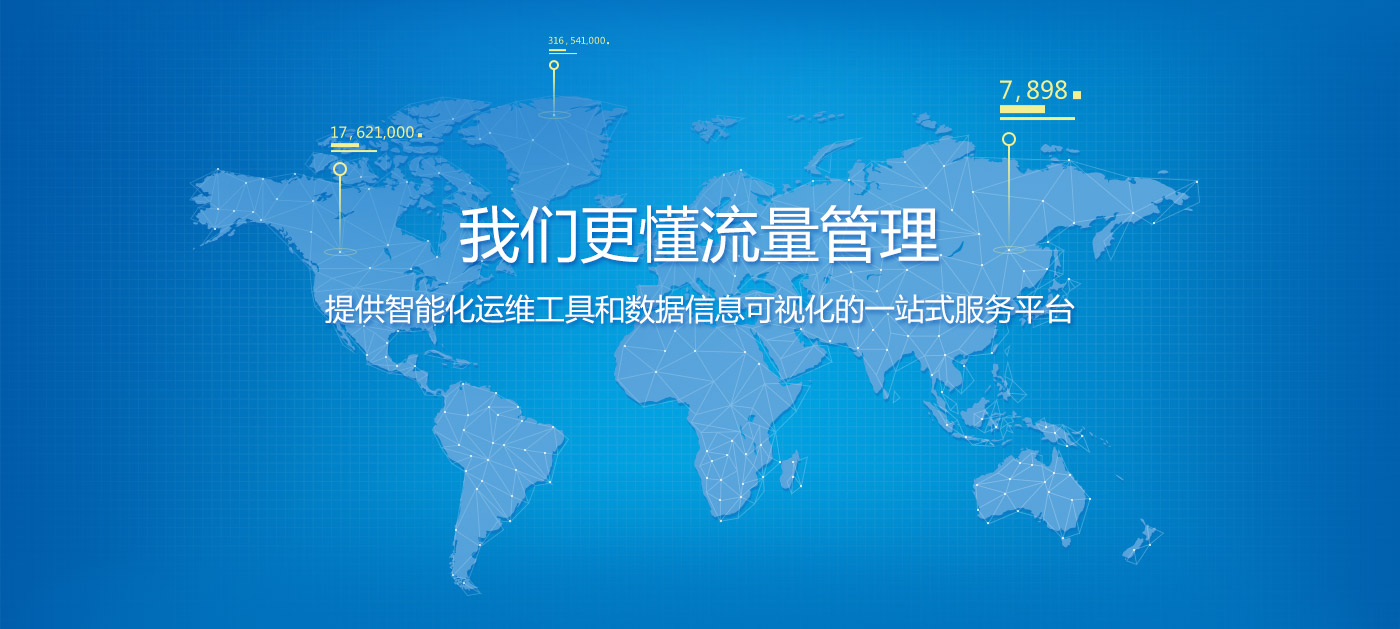
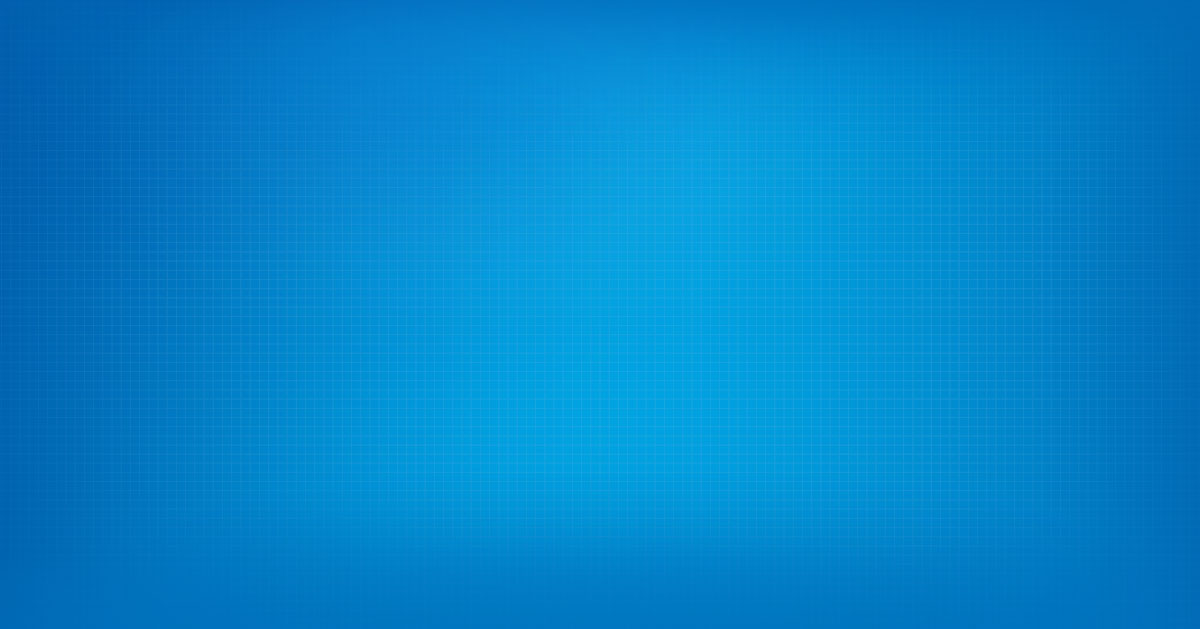
update

diff --git a/src/page/operateLog/showLogList.vue b/src/page/operateLog/showLogList.vue
@@ -41,12 +41,12 @@
                 <Input v-model="log.user" style="width: 350px"></Input>
             </div>
             <div class="search-ctrl">
-                <Button type="primary" class="btn-search ml-20 mt-10" @click="searchSubmit">立即检索</Button>
+                <Button type="primary" class="btn-search ml-20 mt-10" @click="getLogData">立即检索</Button>
                 <a class="text-blue" @click="reset">清空</a>
             </div>
         </div>
         <div class="search-result">
-            <p class="search-content">已查找到<span>1161</span>条数据</p>
+            <p class="search-content">已查找到<span>{{data.length}}</span>条数据</p>
             <a class="search-download">下载检索结果文件</a>
         </div>
         <div class="tableContent">
@@ -68,34 +68,80 @@
 }
 </style>
 <script type="text/ecmascript-6">
-    import {loglisttables,showDataSelection} from '../../../static/data'
+    import {loglisttables,showDataSelection,dateOptions} from '../../../static/data'
+    import * as types from '../../assets/js/const'
     export default{
         data(){
             return {
                 columns: loglisttables.columns,
-                data: loglisttables.datalist,
+                data: [],
                 logTypeList:showDataSelection.logTypeList,
                 sourceList: showDataSelection.sourceList,
                 resultList: showDataSelection.resultList,
+                defaultDate:dateOptions.defaultDate,
+                options: dateOptions.options,
                 log:{
-                    user: ''
+                    user: '',
+                    logType: 'all',
+                    source: 'all',
+                    result: 'all',
+                    startDate:new Date(),
+                    finDate: new Date()
                 },
                 defaultData:{
-                    logType:{
-                        label: '全部',
-                        value: 'all'
-                    },
-                    source:{
-                        label: '全部来源',
-                        value: 'all'
-                    },
-                    result: {
-                        label: '全部',
-                        value: 'all'
-                    }
-                },
-                selection: [],
+                    logType:types.logType,
+                    source: types.source,
+                    result: types.result
+                }
             }
         },
+        methods:{
+            getLogData(){
+                this.$http.post('http://localhost:8080/user',this.log)
+                        .then(()=>{
+
+                        })
+                        .catch((res)=>{
+                            this.data = loglisttables.datalist
+                        })
+            },
+            selectLog(value){
+                this.log.logType = value.value
+            },
+            selectSource(value){
+                this.log.source = value.value
+            },
+            selectResult(value){
+                this.log.result = value.value
+            },
+            reset(){
+                this.log.user = '';
+                this.log.logType = 'all';
+                this.log.source = 'all';
+                this.log.result = 'all';
+                this.log.startDate = new Date();
+                this.log.finDate = new Date();
+            },
+            setStart(date) {
+                this.log.startDate = date;
+                if(this.log.finDate && this.log.startDate>this.log.startDate){
+                    alert('起始时间不能晚于结束时间！');
+                    return false;
+                }
+            },
+            setFin(date) {
+                this.log.finDate = date;
+                if(this.log.startDate<this.log.startDate){
+                    alert('结束时间不能早于起始时间！');
+                    return false;
+                }
+            },
+        },
+        computed:{
+
+        },
+        mounted(){
+            this.getLogData()
+        }
     }
 </script>

diff --git a/src/page/common/home.vue b/src/page/common/home.vue
@@ -2,24 +2,93 @@
     <div class="home">
         <header>
             <div class="pull-left logo-info">
-                <img src="../../assets/imgs/logo.png">
+                <img src="../../assets/imgs/logo_home.png">
                 <span>全网流量资源管理平台</span>
+                <div class="pull-right">
+                    <a>数据视图</a>
+                    <a>在线文档</a>
+                    <a>关于我们</a>
+                </div>
             </div>
         </header>
         <div class="homeBg">
-
+            <img src="../../assets/imgs/map.png" width="72%" />
+            <span class="login" @click="$router.push('/login')">用户登陆</span>
         </div>
         <my-foot></my-foot>
     </div>
 </template>
 <style lang="less">
 .home{
+    position:relative;
     header{
         height: 70px;
         line-height: 70px;
         overflow: hidden;
         width: 100%;
-        background: #1c78c0;
+        color: #FFF;
+        background:-moz-linear-gradient(top, #1a71bb, #1d80c7);
+        background:-webkit-gradient(linear, 0 0, 0 bottom, from(#1a71bb), to(#1d80c7));
+        background:-o-linear-gradient(top, #1a71bb, #1d80c7);
+    }
+    .logo-info{
+        width: 1200px;
+        margin: 0 auto;
+        float:none;
+        span{
+            color: #FFF;
+        }
+    }
+    .homeBg{
+        width: 100%;
+        background: url("../../assets/imgs/home_bg.jpg") no-repeat;
+        background-size: cover;
+        width: 100%;
+        position: fixed;
+        text-align: center;
+        min-height: 800px;
+        .map{
+            background: url("../../assets/imgs/map.png") no-repeat;
+            width: 1200px;
+            height: 663px;
+            margin: 0 auto;
+        }
+        .title{
+            background: url("../../assets/imgs/title.png") no-repeat;
+            width: 1200px;
+            height: 130px;
+            position: absolute;
+            top:300px;
+        }
+        .login{
+            display: inline-block;
+            width: 156px;
+            height: 56px;
+            line-height: 56px;
+            color: #fff;
+            background: #feb343;
+            font-size: 24px;
+            position: absolute;
+            cursor: pointer;
+            border-radius: 3px;
+            top:60%;
+            left: 50%;
+            margin-left: -78px;
+        }
+    }
+    .footer{
+        border:0;
+    }
+    .pull-right{
+        float: right;
+        height: 67px;
+        font-size: 14px;
+        color: #666;
+        line-height: 67px;
+        a{
+            color: #FFF;
+            margin-right: 45px;
+        }
     }
 }
 

diff --git a/src/page/export/customQueryList.vue b/src/page/export/customQueryList.vue
@@ -24,6 +24,21 @@
         <div class="tableContent">
             <Table width="auto" stripe height="600" style="margin-top: 10px;" border :columns="columns" :data="data"></Table>
         </div>
+        <Modal v-model="dialog.search" :mask-closable="false" title="数据检索" class="userRole">
+            <div class="clearfix dialog-body">
+                <div class="search-item" v-if="!searchResult">
+                    <p >查询名称：{{query.name}}</p>
+                    <p class="mt-20">计算完成，请点击下载结果</p>
+                </div>
+                <Spin fix>
+                    <Icon type="load-c" size=30 class="demo-spin-icon-load" v-if="searchResult"></Icon>
+                    <div v-if="searchResult">正在检索，请稍后...</div>
+                </Spin>
+            </div>
+            <div slot="footer">
+                <a type="primary" style="width:85px" class="align f14" :src="searchUrl"  @click="download_con" :disabled="searchResult">下载文件</a>
+            </div>
+        </Modal>
     </div>
 </template>
 <style lang="less">
@@ -35,6 +50,19 @@
          background-color: #f7f7f7 !important;
      }
 }
+.dialog-body{
+    .ivu-spin-fix{
+        position: relative;
+    }
+}
+.demo-spin-icon-load{
+    animation: ani-demo-spin 1s linear infinite;
+}
+@keyframes ani-demo-spin {
+    from { transform: rotate(0deg);}
+    50%  { transform: rotate(180deg);}
+    to   { transform: rotate(360deg);}
+}
 </style>
 <script type="text/ecmascript-6">
     import {customquerytables} from '../../../static/data'
@@ -43,6 +71,11 @@
             return {
                 columns: customquerytables.columns,
                 data: customquerytables.datalist,
+                dialog: {
+                    search: false
+                },
+                searchResult:true,
+                searchUrl: '',
                 query:{
                     name: '',
                     sql: ''
@@ -51,10 +84,21 @@
         },
         methods:{
             setSearch(type){
-
+                this.dialog.search = true;
+                this.$http.post('http://localhost:8080/admin',this.query)
+                        .then((res)=>{
+                            console.log(res)
+                        })
+                        .catch((res)=>{
+                            this.searchResult = false;
+                        //    this.searchUrl = res.url;
+                        })
             },
             copythis(index){
                 this.query.sql = this.data[index].SQLDetail;
+            },
+            download_con(){
+
             }
         },
         computed: {

diff --git a/static/data.js b/static/data.js
@@ -1674,4 +1674,17 @@ export const rolesDetail = {
     ]
 }
 
-export const BASEURL = 'http://localhost:8080'
+export const BASEURL = 'http://localhost:8080'  //路径
+
+export const dateOptions = {
+    defaultDate:new Date(),
+    options: {
+        disabledDate (date) {
+            return date && date.valueOf() > Date.now();
+        }
+    },
+}
+//数据处理
+export const defaultSelection = {
+
+}

diff --git a/build/webpack.base.conf.js b/build/webpack.base.conf.js
@@ -42,7 +42,7 @@ module.exports = {
         loader: 'url-loader',
         query: {
           limit: 10000,
-          name: utils.assetsPath('img/[name].[hash:7].[ext]')
+          name: utils.assetsPath('img/[name].[ext]')
         }
       },
       {

diff --git a/src/assets/js/const.js b/src/assets/js/const.js
@@ -1,0 +1,6 @@
+/**
+ * Created by syzx9801@163.com on 2017/5/18.
+ */
+export const logType = { label: '全部', value: 'all'};
+export const source = { label: '全部来源', value: 'all'};
+export const result = { label: '全部', value: 'all'};

diff --git a/src/assets/css/layout.less b/src/assets/css/layout.less
@@ -31,6 +31,10 @@
     }
   }
 }
+.dialog-body{
+  font-size: 14px;
+  color: #333;
+}
 .module-search{
   width: 100%;
   background: #f6f7fb;
